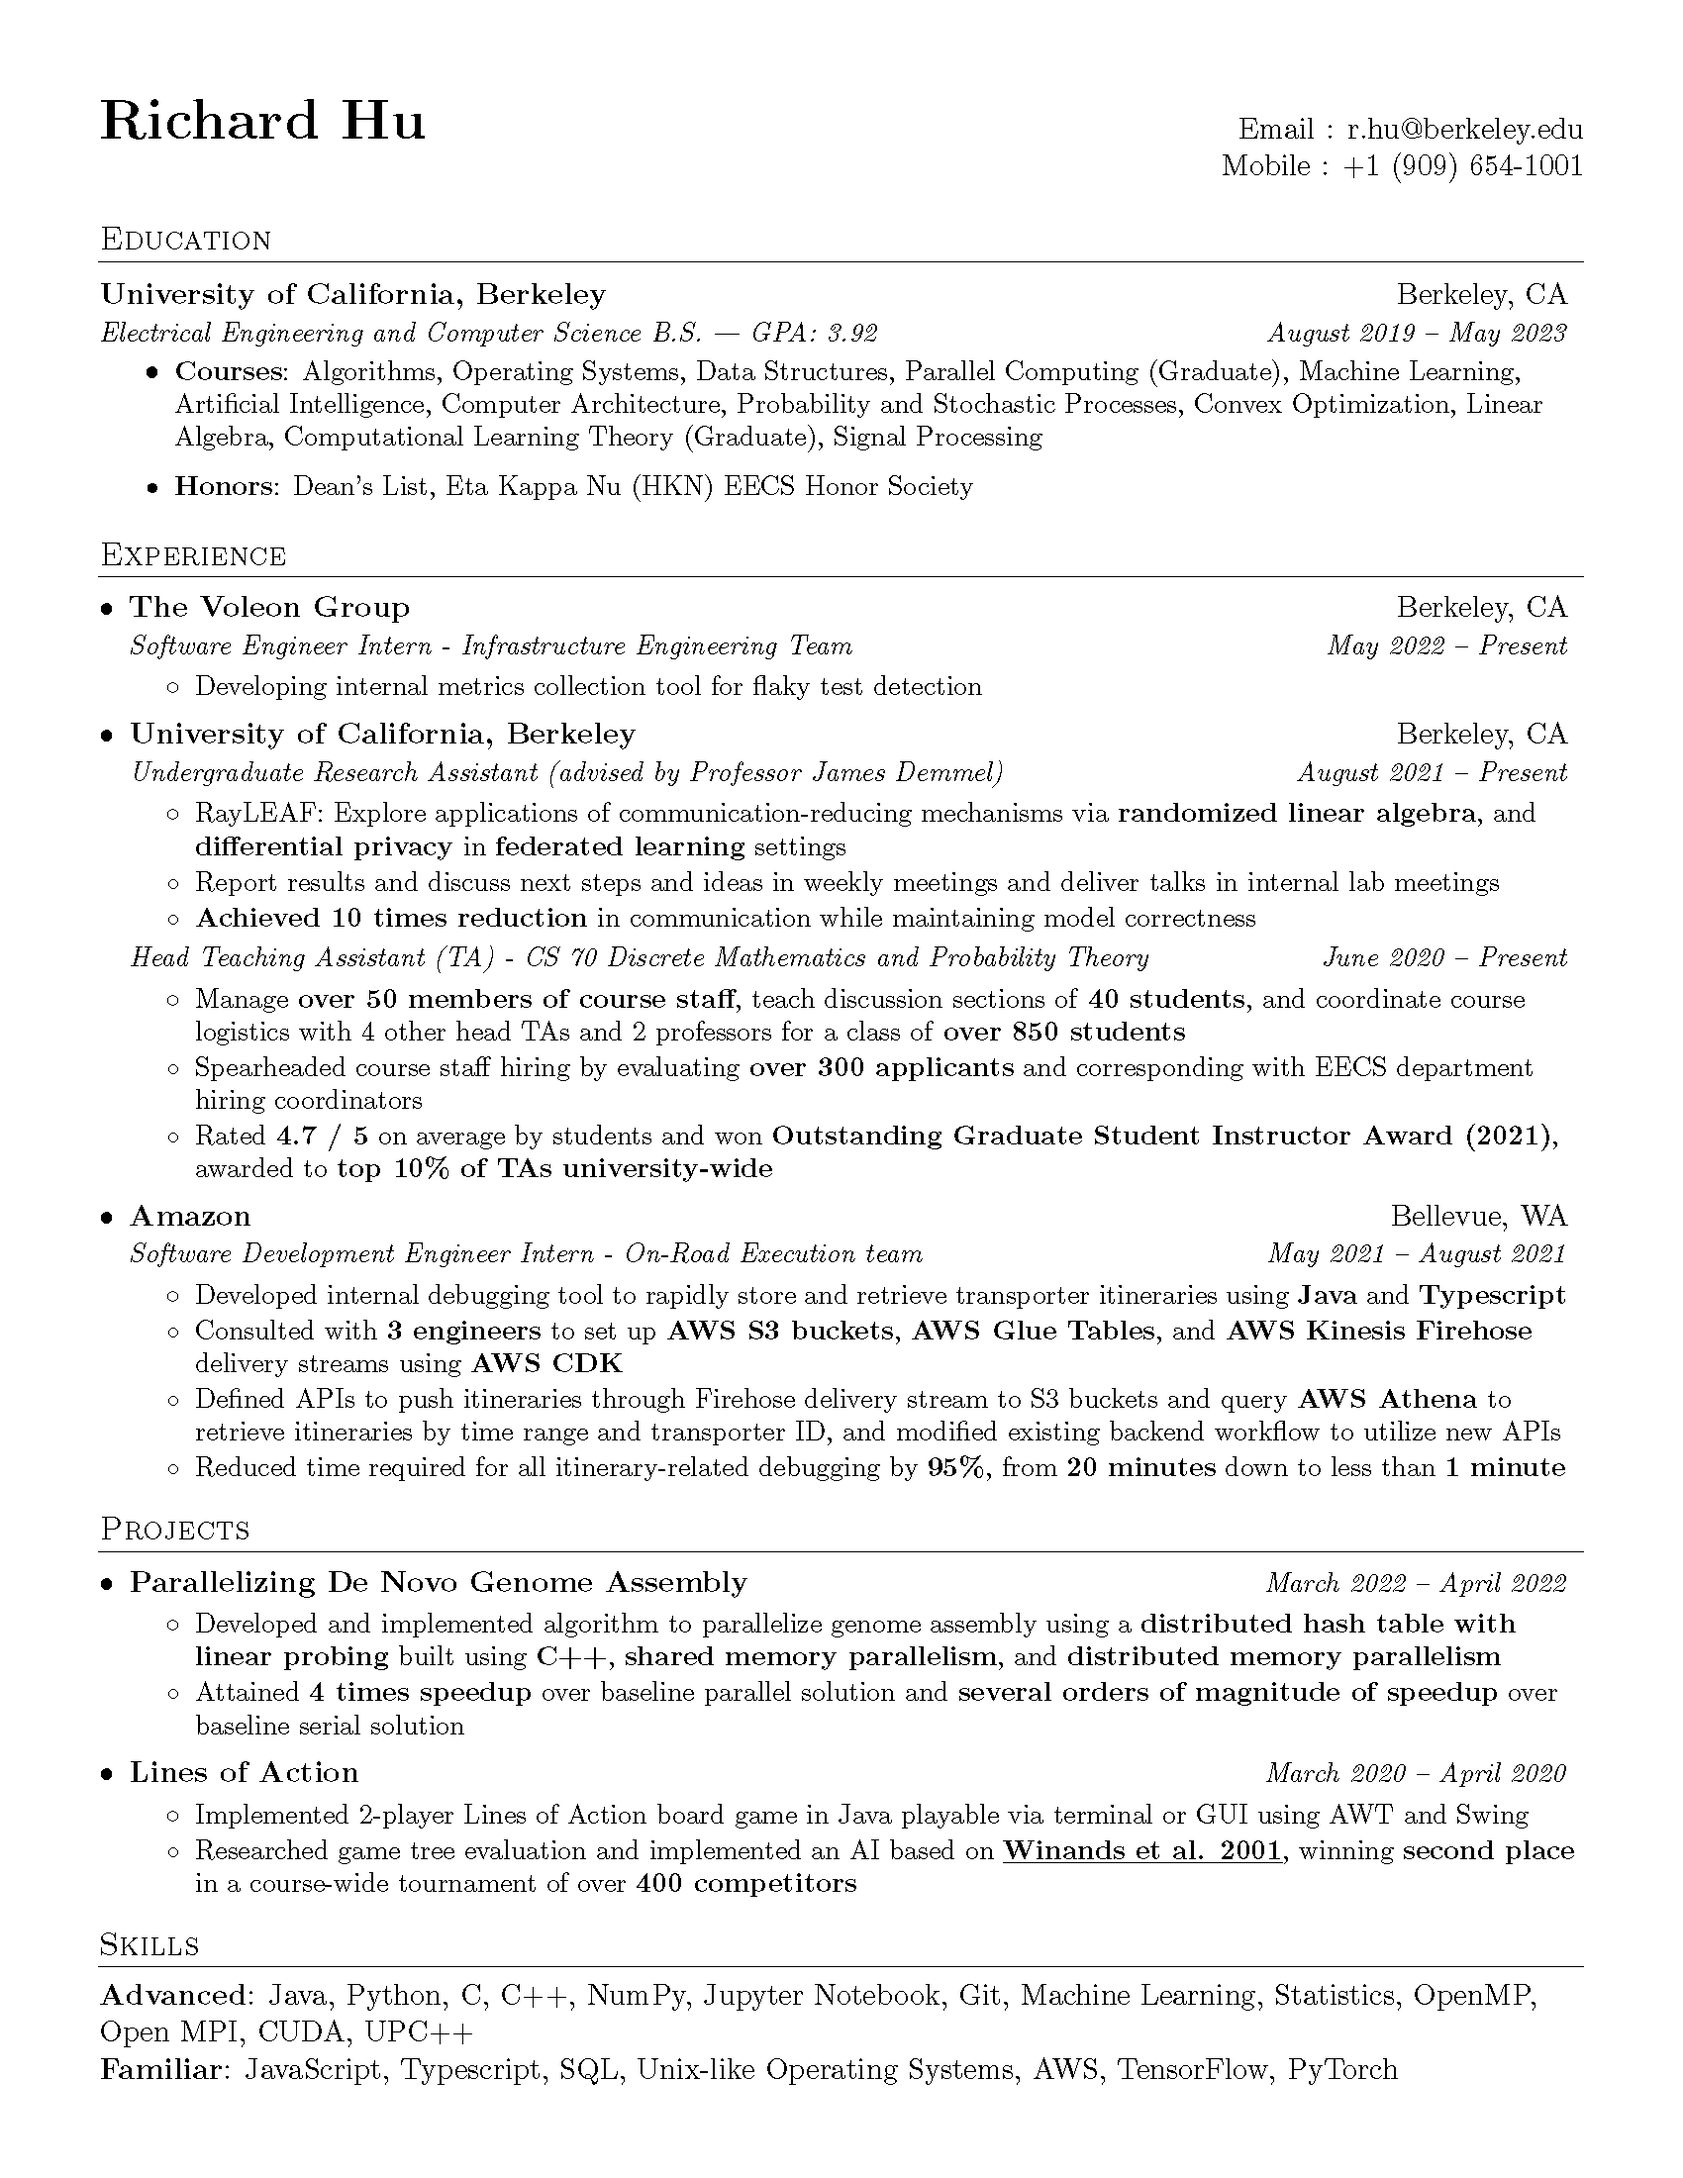
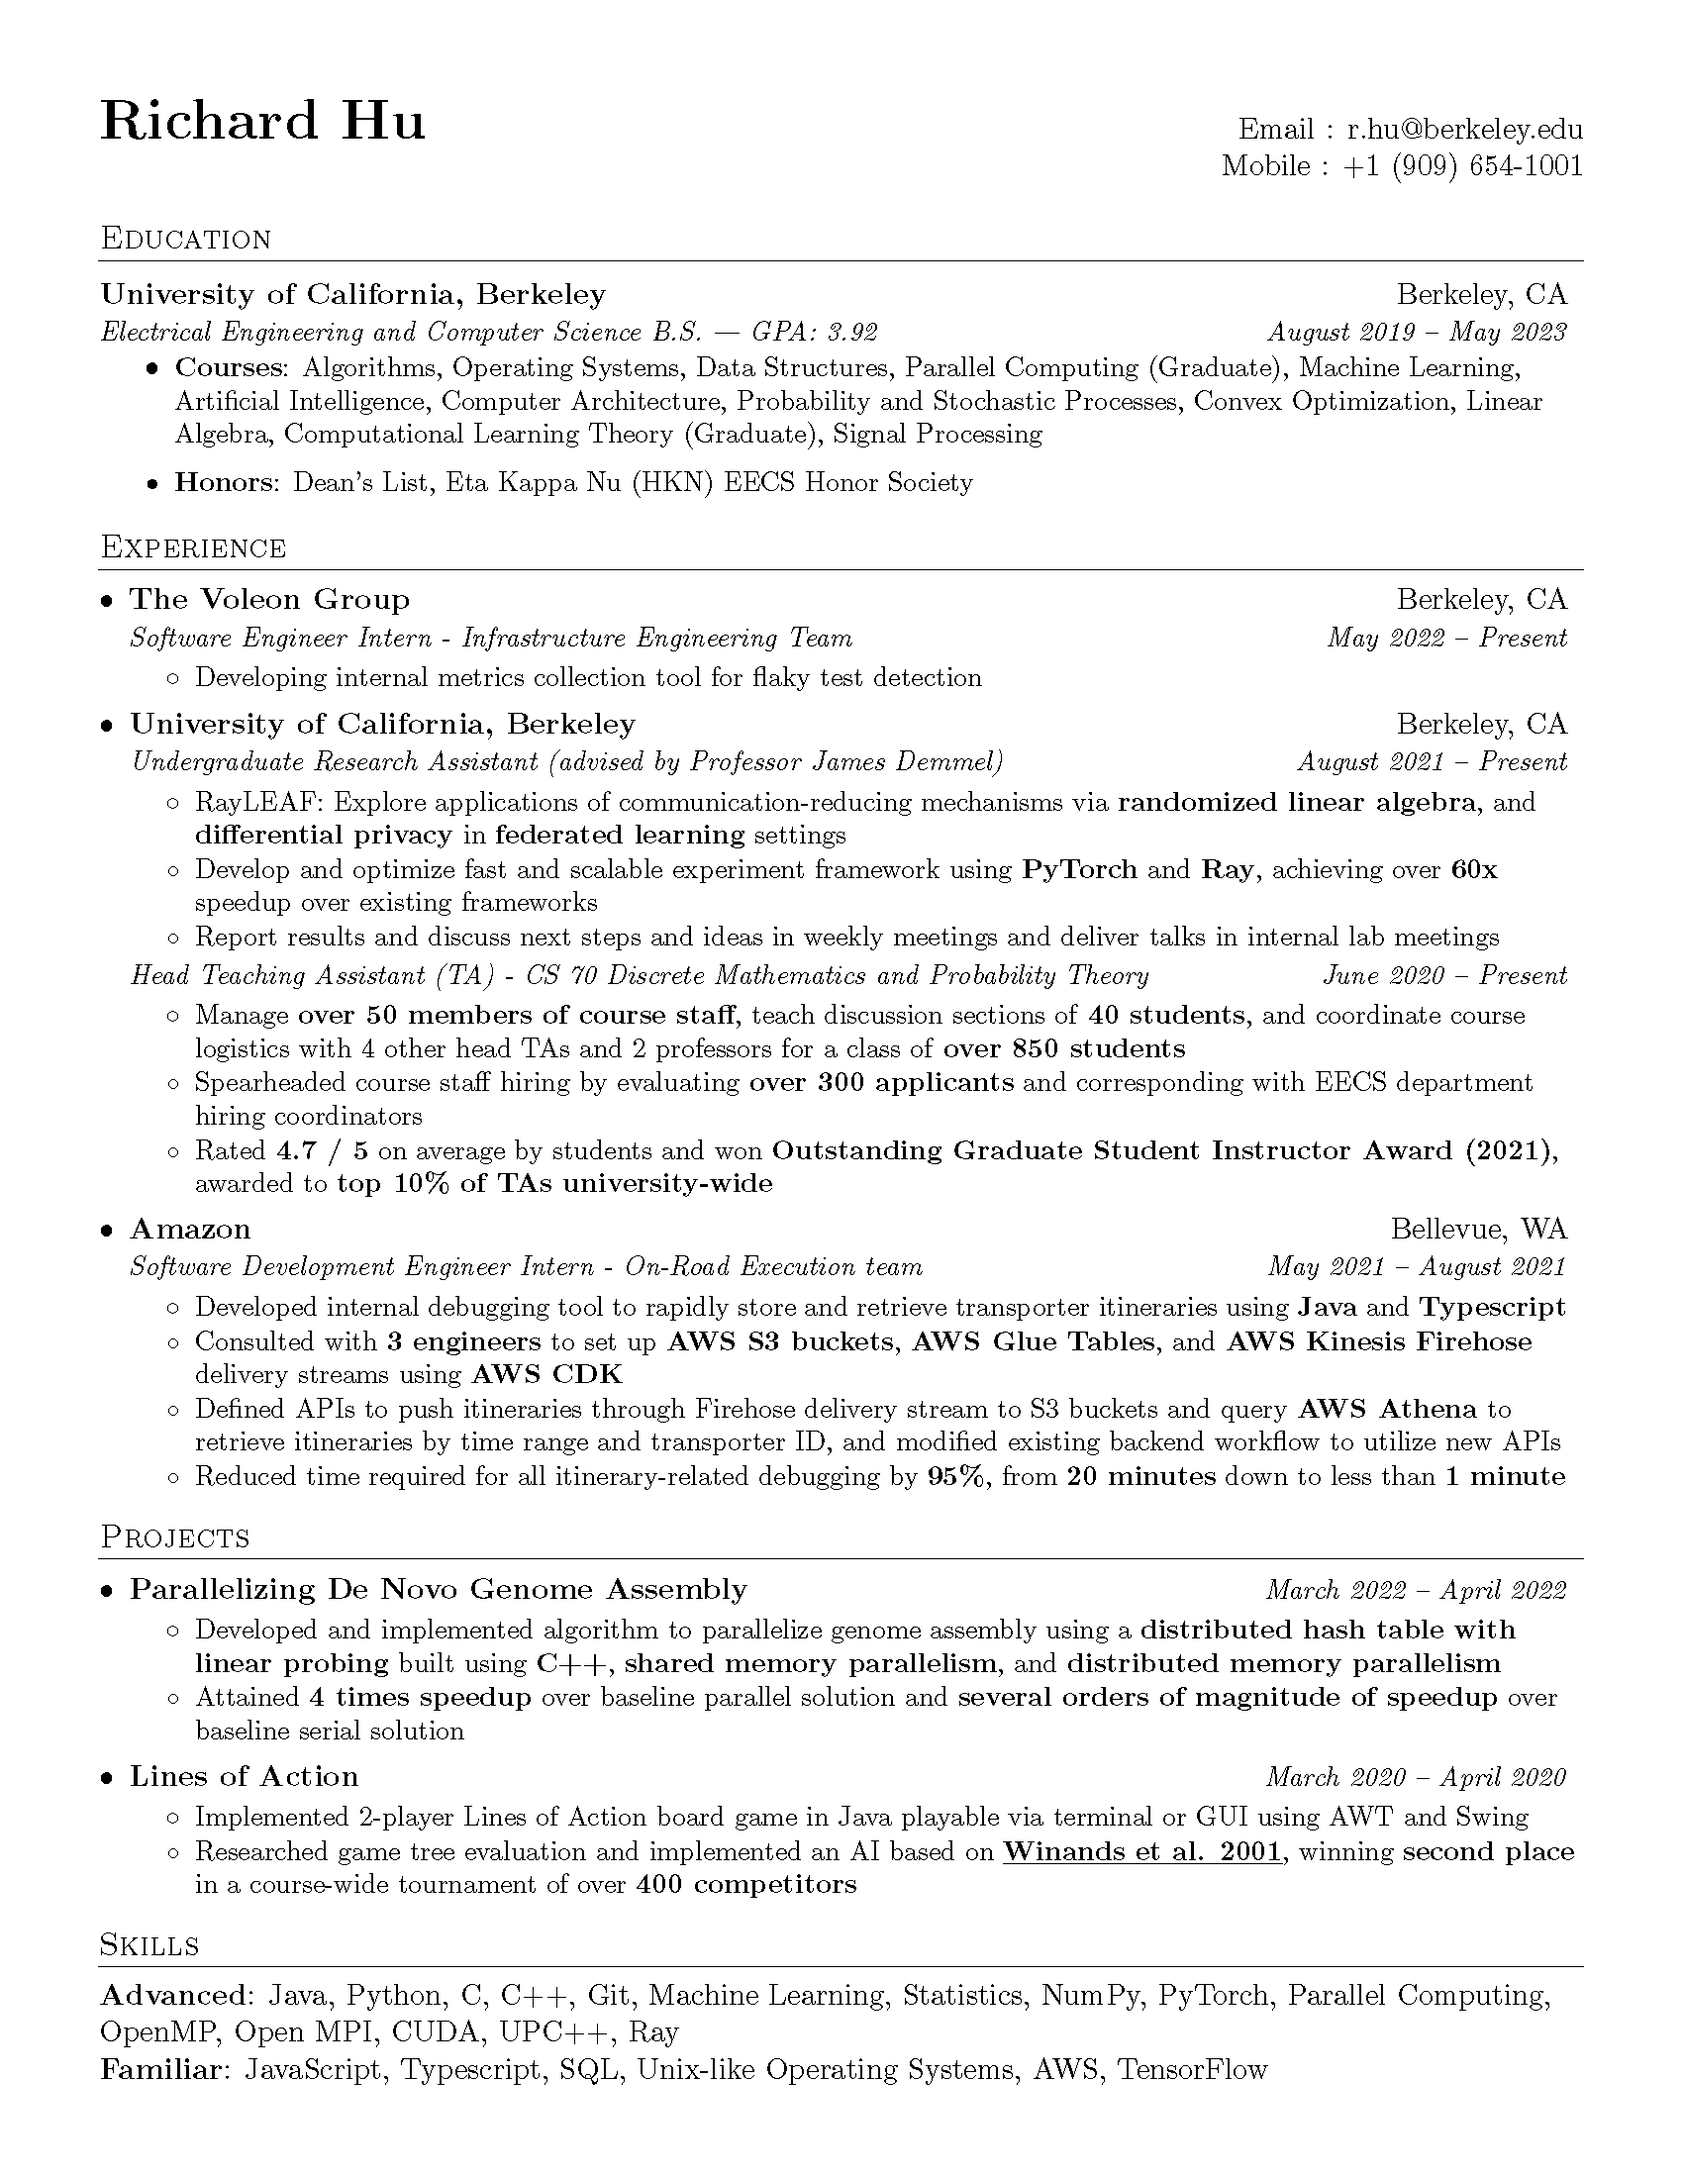
Update 6/11

diff --git a/main.tex b/main.tex
@@ -141,8 +141,8 @@
           {Undergraduate Research Assistant (advised by Professor James Demmel)}{August 2021 -- Present}
           \resumeItemListStart
             \ritem{RayLEAF: Explore applications of communication-reducing mechanisms via \textbf{randomized linear algebra}, and \textbf{differential privacy} in \textbf{federated learning} settings}
+            \ritem{Develop and optimize fast and scalable experiment framework using \textbf{PyTorch} and \textbf{Ray}, achieving over \textbf{60x} speedup over existing frameworks}
             \ritem{Report results and discuss next steps and ideas in weekly meetings and deliver talks in internal lab meetings}
-            \ritem{\textbf{Achieved 10 times reduction} in communication while maintaining model correctness}
           \resumeItemListEnd
     \resumeSubSubheading
      {Head Teaching Assistant (TA) - CS 70 Discrete Mathematics and Probability Theory}{June 2020 -- Present}
@@ -189,8 +189,8 @@
 
 
 \section{Skills}
-    \textbf{Advanced}: Java, Python, C, C++, NumPy, Jupyter Notebook, Git, Machine Learning, Statistics, OpenMP, Open MPI, CUDA, UPC++
+    \textbf{Advanced}: Java, Python, C, C++, Git, Machine Learning, Statistics, NumPy, PyTorch, Parallel Computing, OpenMP, Open MPI, CUDA, UPC++, Ray
     
-    \textbf{Familiar}: JavaScript, Typescript, SQL, Unix-like Operating Systems, AWS, TensorFlow, PyTorch
+    \textbf{Familiar}: JavaScript, Typescript, SQL, Unix-like Operating Systems, AWS, TensorFlow
 
 \end{document}
